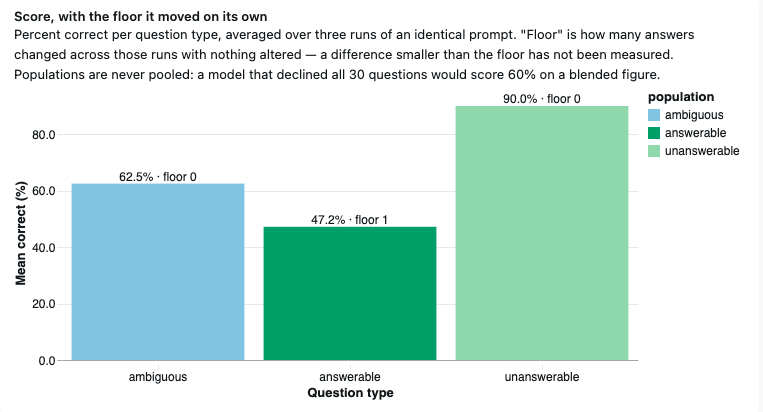
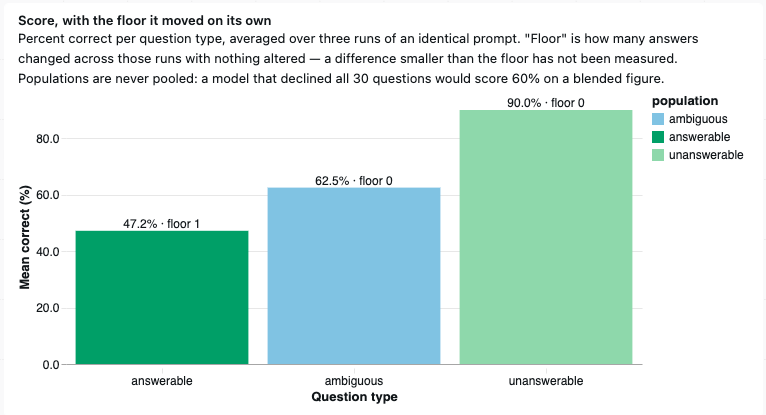
Update dashboard screenshot and its alt text

diff --git a/README.md b/README.md
@@ -30,9 +30,12 @@ schema — which, in real use, is most of the time.
 the tenth on every single run — a reproducible blind spot around missing *time* rather than
 missing columns. See [What it found](#what-it-found).
 
-![Bar chart of percent correct per question type across three identical runs: ambiguous 62.5%
-with a floor of 0, answerable 47.2% with a floor of 1, unanswerable 90.0% with a floor of 0.
-Each bar is labelled with its score and its floor.](docs/dashboard-score-with-floor.png)
+![Bar chart titled "Score, with the floor it moved on its own". Percent correct per question
+type, averaged over three runs of an identical prompt: answerable 47.2% with a floor of 1,
+ambiguous 62.5% with a floor of 0, unanswerable 90.0% with a floor of 0. Every bar is
+labelled with its score and its floor. The chart's own note adds that populations are never
+pooled, because a model declining all 30 questions would score 60% on a blended
+figure.](docs/dashboard-score-with-floor.png)
 
 *Every score is reported with the floor beside it — how many answers changed across three
 runs of an identical prompt. A difference smaller than the floor has not been measured.*
